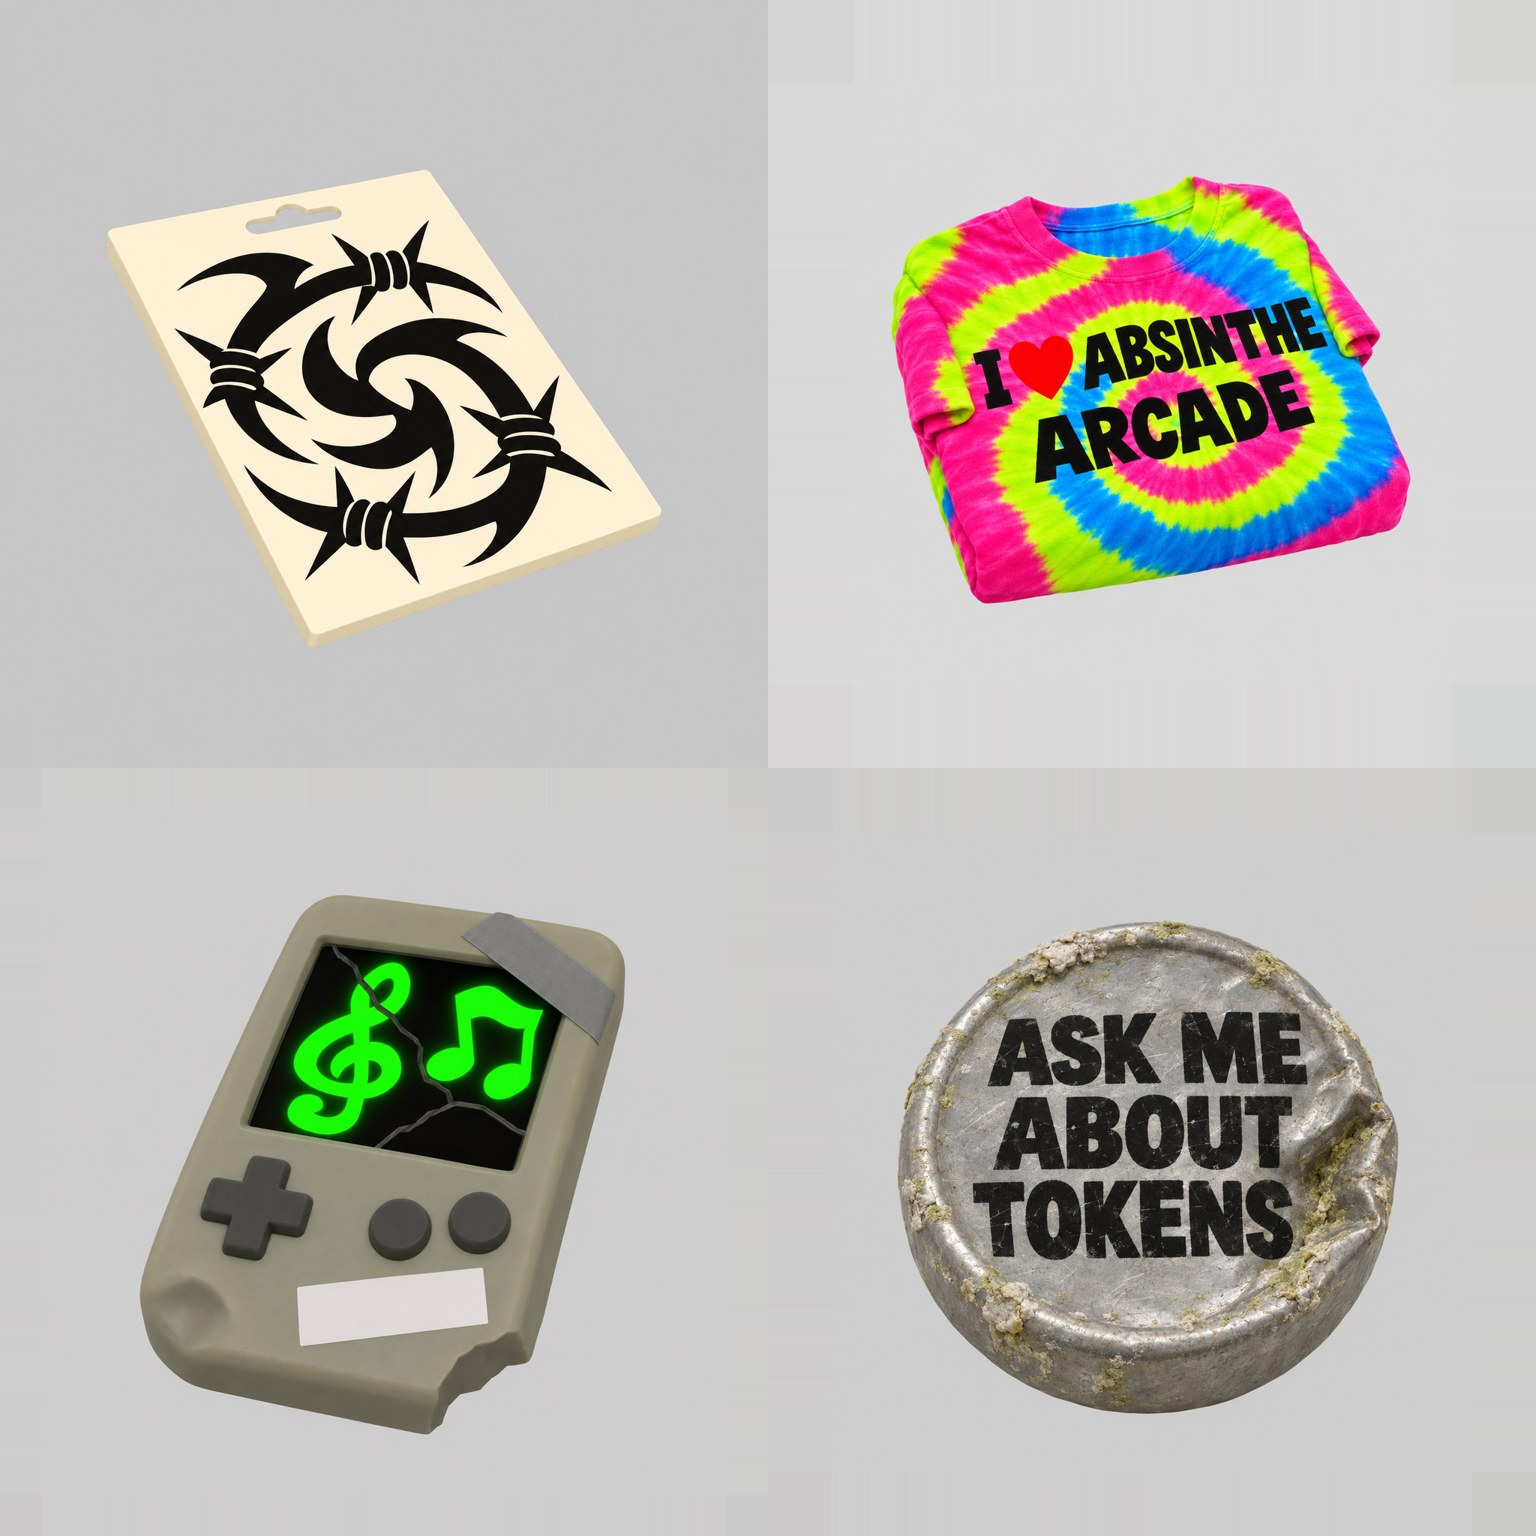
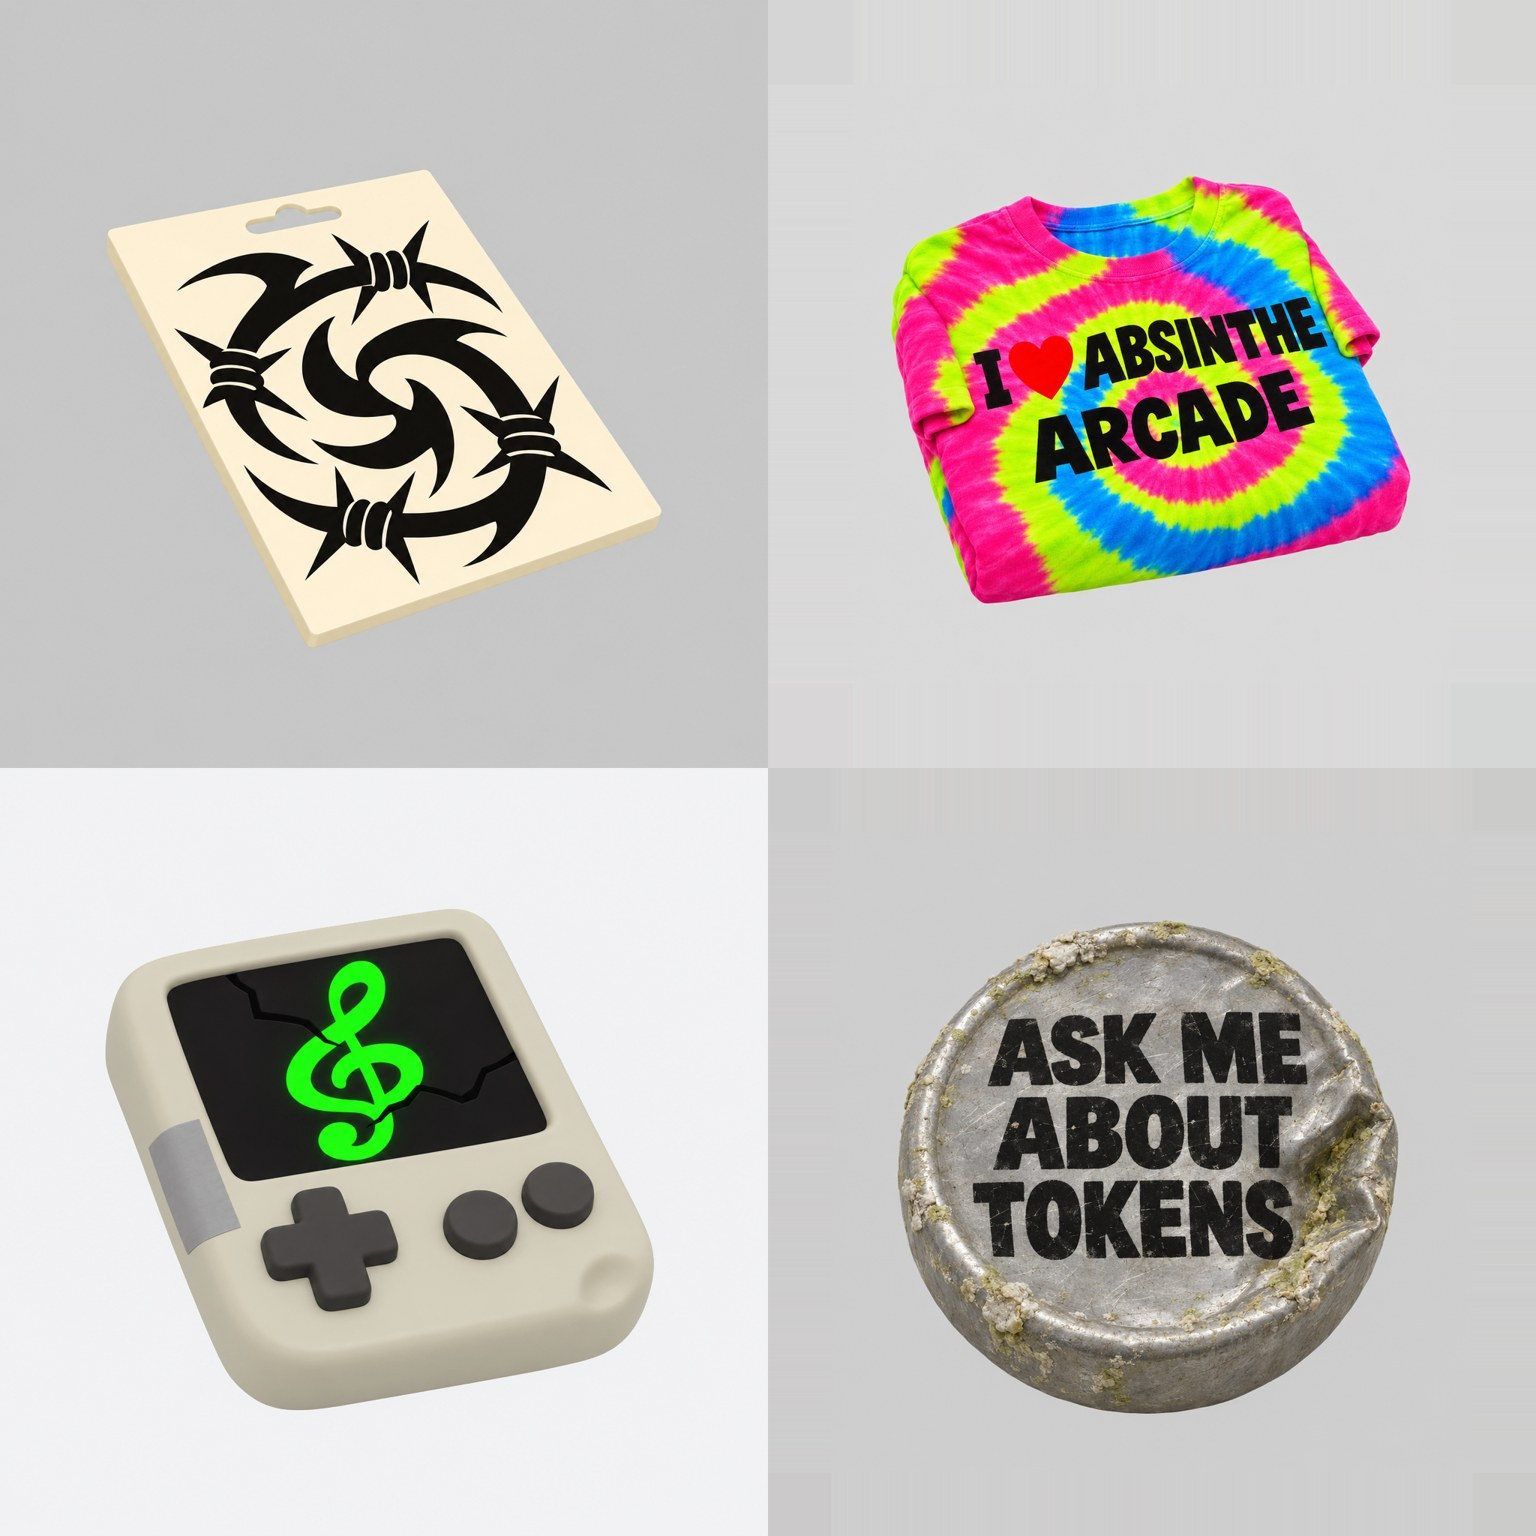
art(debaucheryville): handheld reference round 3, single treble clef, smooth toy look (asset team)
Claude-Session: https://claude.ai/code/session_01Rk2Ri3vAu7TBhRadSU9CbJ

Changed region(s): [[0.0, 0.5, 0.5, 1.0]]

diff --git a/dev/asset_team/icon_refs/aa_broken_symbol_handheld_prompt.md b/dev/asset_team/icon_refs/aa_broken_symbol_handheld_prompt.md
@@ -1,8 +1,8 @@
-# aa_broken_symbol_handheld (Broken Handheld with Weird Symbols): 3D icon reference prompt, round 2
+# aa_broken_symbol_handheld (Broken Handheld with Weird Symbols): 3D icon reference prompt, round 3 (last fix)
 
-Round 1 failed A3 (plus sign instead of musical symbols, open battery bay with springs, frayed tape and peeling stickers, web of thin cracks, tan colour). Round 2 is a FRESH generation: Firefly home, GPT Image 2.6 Sunburst, 1:1, Quality High, no references.
-Canon: design/worlds/debaucheryville/items/absinthe_arcade_items.json entry item_broken_symbol_game_boy (lines 117-140: body sun_yellowed_gray_plastic, screen cracked with single green symbol pulse, foreign stickers, tape, battery cover missing; description "unfamiliar musical symbols"); key_items.json line 310. No lettering. Battery cover missing is shown only as a chunky bitten corner, so it stays solid.
-Mechanical fix: first generation had 8.9 percent bottom margin, padded with edge-replicated grey and shrunk (Pillow, no redraw).
-Shows: grey-with-yellow-cast chunky handheld, dark screen with 3 bold cracks and a glowing green treble clef plus eighth note, flat clean tape strip, one blank flat sticker, a dent and a bitten corner.
+Rounds 1 and 2 failed A3. Round 3 is a FRESH generation: Firefly home, GPT Image 2.6 Sunburst, 1:1, Quality High, no references.
+Canon: design/worlds/debaucheryville/items/absinthe_arcade_items.json entry item_broken_symbol_game_boy (lines 117-140: body sun_yellowed_gray_plastic, screen cracked_with_single_green_symbol_pulse, foreign stickers, tape, battery cover missing; description "unfamiliar musical symbols"); key_items.json line 310. No lettering.
+Shows: smooth chunky vinyl-toy handheld, warm pale grey with yellow cast, one flat black screen with ONE glowing green treble clef and three bold cracks, flat tape patch inside the outline, one smooth shallow dent, closed back, light grey-white background. Margins L13.7 R14.8 T18.4 B16.3 (Pillow).
+Mechanical colour fix (one deterministic recolour, no regeneration): the generation came out cream-yellow, so yellow-hued pixels (hue 35-75 degrees) had saturation scaled by 0.42 and value by 0.93 in Pillow HSV. This reaches the doc's sun-yellowed grey. Green glyph, screen and buttons are untouched.
 
-Prompt: A single chunky broken 90s handheld game console prop, centred in a flat light-grey square, filling about 60 percent of the frame with a wide empty margin on every side. A fat solid upright rounded-rectangle handheld in one even sun-yellowed medium GRAY plastic (a dull grey with a faint yellow cast, not tan, not khaki, not beige). Smooth simple solid surfaces. A big square dead dark screen with just two or three bold thick cracks across it, and on the screen two large bold glowing green MUSICAL symbols, a fat treble clef and a fat eighth note, warped and odd, drawn as thick chunky solid glyphs. A chunky dark plus-shaped directional pad and two fat round buttons, all solid. One big flat strip of grey duct tape stuck flat across the top corner, with clean straight edges, and one thick blank flat sticker with clean edges and no writing. One big dent and one missing chunk at a bottom corner, solid. The back is fully closed, no battery bay, no springs, no wires, no peeling edges, no web of fine cracks, no thin parts. No text, no letters, no numbers, no logos, no hands, no people, no shadows. Seen from a high three-quarter angle. Square image.
+Prompt: A single smooth chunky toy-like broken handheld game console, centred in a flat very light grey, almost white, square background, filling about 55 percent of the frame with a wide empty margin on every side. Smooth soft rounded solid shapes like a chunky molded vinyl toy, simple and clean, no surface texture. The body is one even warm sun-yellowed pale grey plastic with a clear yellowish cast, like old yellowed grey plastic (not olive, not green, not tan, not khaki). A big square dead dark screen set into the body, one smooth flat face, with exactly one single bold glowing green treble clef symbol in the middle, warped and odd, a thick chunky solid glyph, and two or three thick chunky bold black crack lines across the screen. A chunky dark plus-shaped directional pad and two fat round buttons, all solid. One flat rectangular patch of grey duct tape lying flat fully inside the body outline on one side, clean straight edges, not overhanging. One smooth shallow round dent in a corner of the body, no chips, no jagged edges. Closed back, no battery bay, no springs, no wires, no peeling parts, no thin parts, no fine cracks. No text, no letters, no numbers, no logos, no hands, no people, no shadows. Seen from a high three-quarter angle. Square image.
